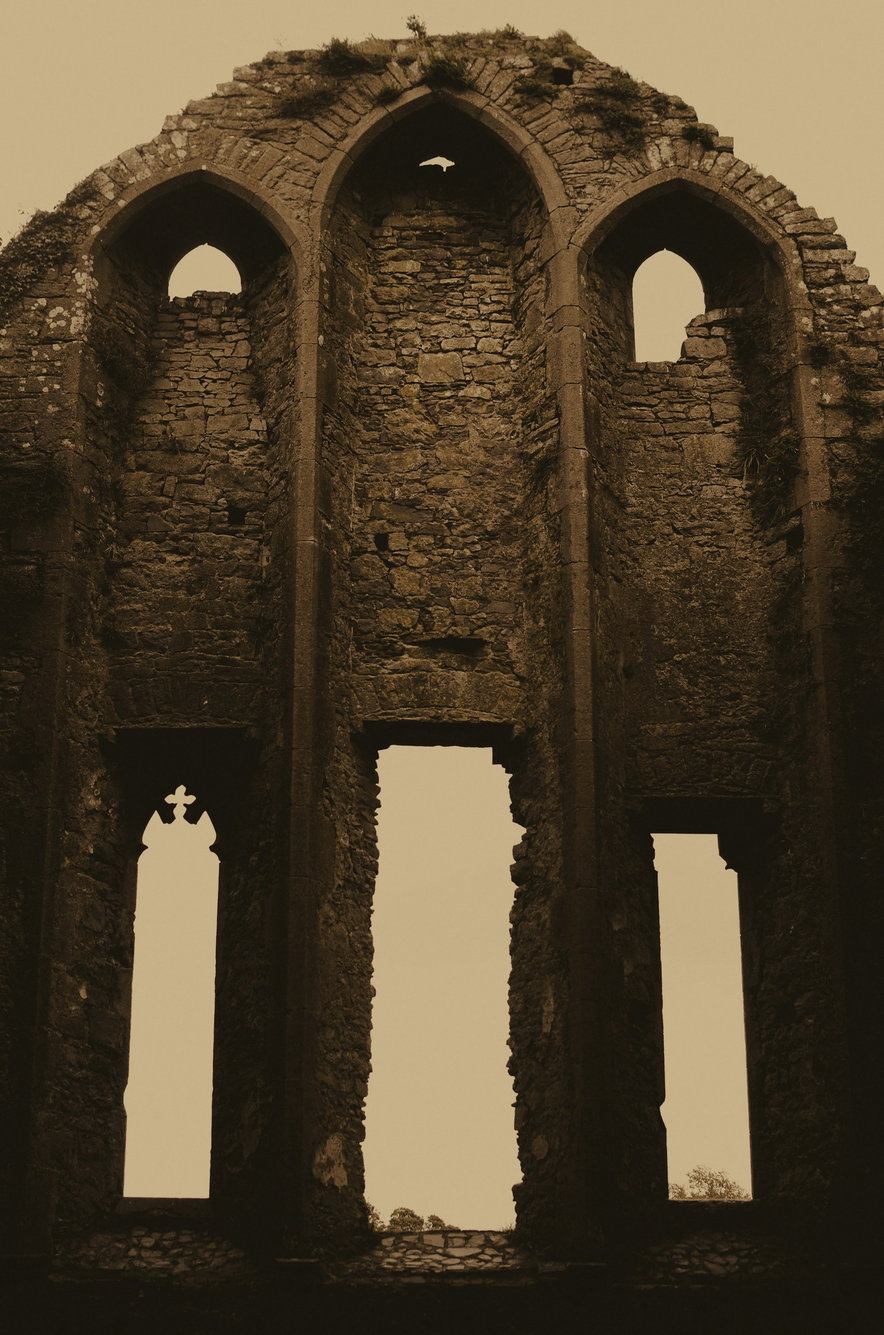
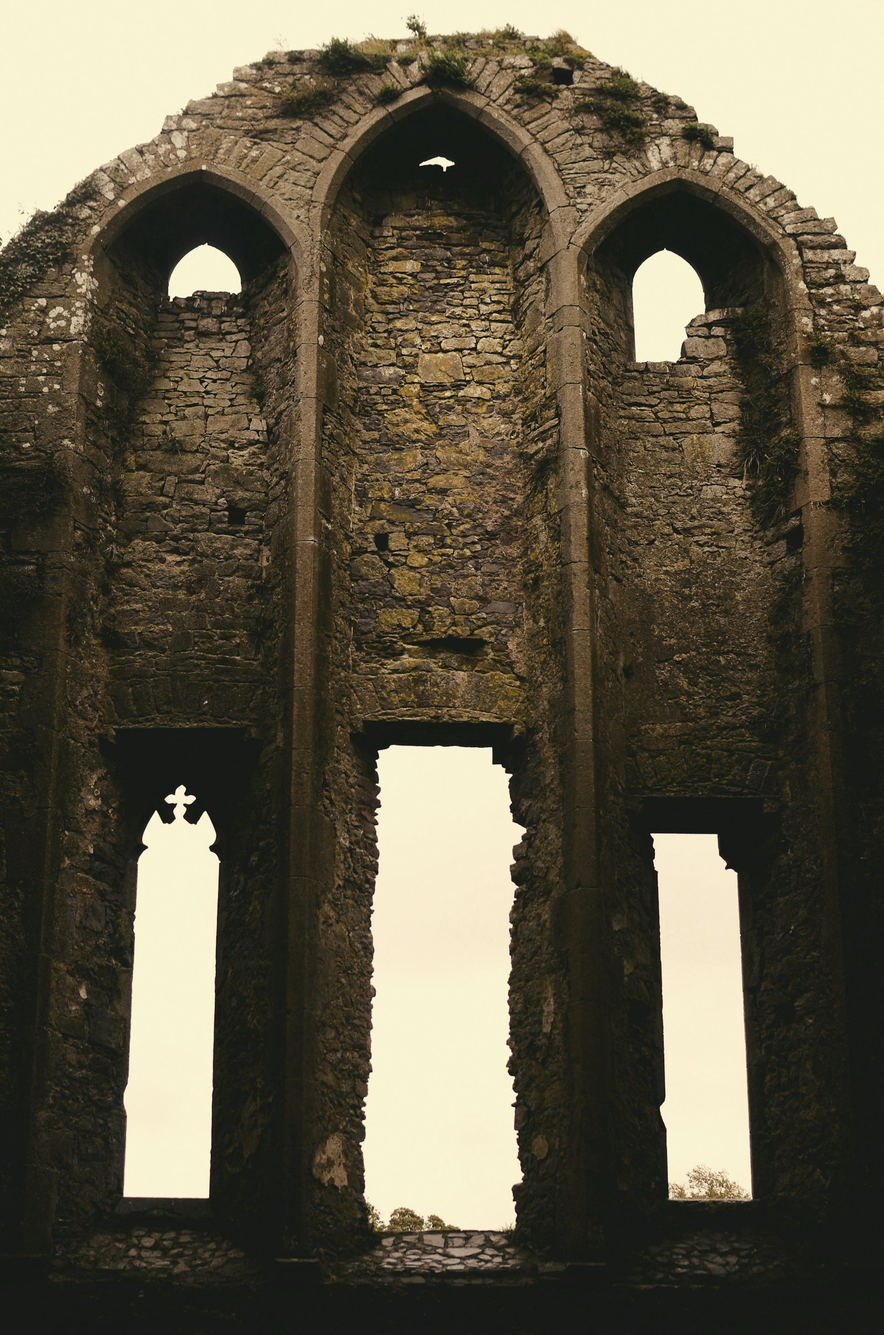
Звук: музыка тише под рассказчика (−65%); ярче фоны сцен (ослаблен дуотон + CSS-фильтр + светлее вуаль)

diff --git a/css/styles.css b/css/styles.css
@@ -29,12 +29,12 @@ body{
    image rather than re-grading it — keep it light so scenes aren't crushed. */
 .scene-bg{position:fixed;inset:0;z-index:0;background-size:cover;background-position:center;
   opacity:0;transition:opacity 1.2s ease;
-  filter:sepia(.15) brightness(.62) contrast(1.04) saturate(.9);
+  filter:sepia(.08) brightness(.95) contrast(1.02) saturate(.98);
   will-change:opacity,transform;}
 .scene-bg.show{opacity:1;animation:kenburns 26s ease-in-out infinite alternate;}
-/* dark readable veil so narration text always pops over the image */
+/* lighter veil — keeps text readable but lets the scene image clearly show */
 #bg-veil{position:fixed;inset:0;z-index:1;pointer-events:none;
-  background:radial-gradient(ellipse at center, rgba(15,10,4,.35) 0%, rgba(15,10,4,.72) 100%);}
+  background:radial-gradient(ellipse at center, rgba(15,10,4,.12) 0%, rgba(15,10,4,.5) 100%);}
 @keyframes kenburns{from{transform:scale(1.0);}to{transform:scale(1.09);}}
 
 /* fixed vignette overlay */

diff --git a/js/audio.js b/js/audio.js
@@ -167,7 +167,7 @@
   var MUSIC_BASE = 'assets/audio/music/';
   var FILE_VOL = 0.55;
   var PROC_VOL = 0.6;
-  var DUCK = 0.72;   // music drops to ~72% (≈28% quieter) while the narrator speaks
+  var DUCK = 0.35;   // music drops to ~35% (≈65% quieter) so the narrator is clearly heard
   function musicEl() { return (typeof document !== 'undefined') ? document.getElementById('music') : null; }
   function fileTarget() { return FILE_VOL * (audio._ducked ? DUCK : 1); }
 

diff --git a/sw.js b/sw.js
@@ -1,4 +1,4 @@
-const CACHE = 'skazanie-v6';
+const CACHE = 'skazanie-v7';
 const ASSETS = [
   './', './index.html', './css/styles.css',
   './js/dice.js', './js/rules.js', './js/heroes.js', './js/bestiary.js', './js/adventure.js',

diff --git a/tools/treat-assets.py b/tools/treat-assets.py
@@ -94,6 +94,14 @@ def treat(src_path, out_path, *, strength):
         out = ImageEnhance.Color(out).enhance(0.92)      # pull stray saturation toward sepia
         out = ImageEnhance.Brightness(out).enhance(0.98)
         grain_strength, grain_opacity = 26, 0.06
+    elif strength == "scene":
+        # scene backgrounds: warm-unify but stay BRIGHT enough to read behind the UI
+        rgb = ImageEnhance.Contrast(rgb).enhance(1.04)
+        duo = _apply_duotone(rgb)
+        out = Image.blend(rgb, duo, 0.5)                 # half unify, keep the photo's light
+        out = ImageEnhance.Color(out).enhance(0.95)
+        out = ImageEnhance.Brightness(out).enhance(1.18) # lift so the image is clearly visible
+        grain_strength, grain_opacity = 22, 0.05
     else:  # light — portraits: protect the oils
         rgb = ImageEnhance.Contrast(rgb).enhance(1.05)
         duo = _apply_duotone(rgb)
@@ -122,7 +130,7 @@ def treat(src_path, out_path, *, strength):
 
 
 JOBS = {
-    "scenes":    dict(folder="scenes",    exts=(".jpg", ".jpeg"), strength="strong"),
+    "scenes":    dict(folder="scenes",    exts=(".jpg", ".jpeg"), strength="scene"),
     "enemies":   dict(folder="enemies",   exts=(".png",),         strength="strong"),
     "portraits": dict(folder="portraits", exts=(".png",),         strength="light"),
 }
